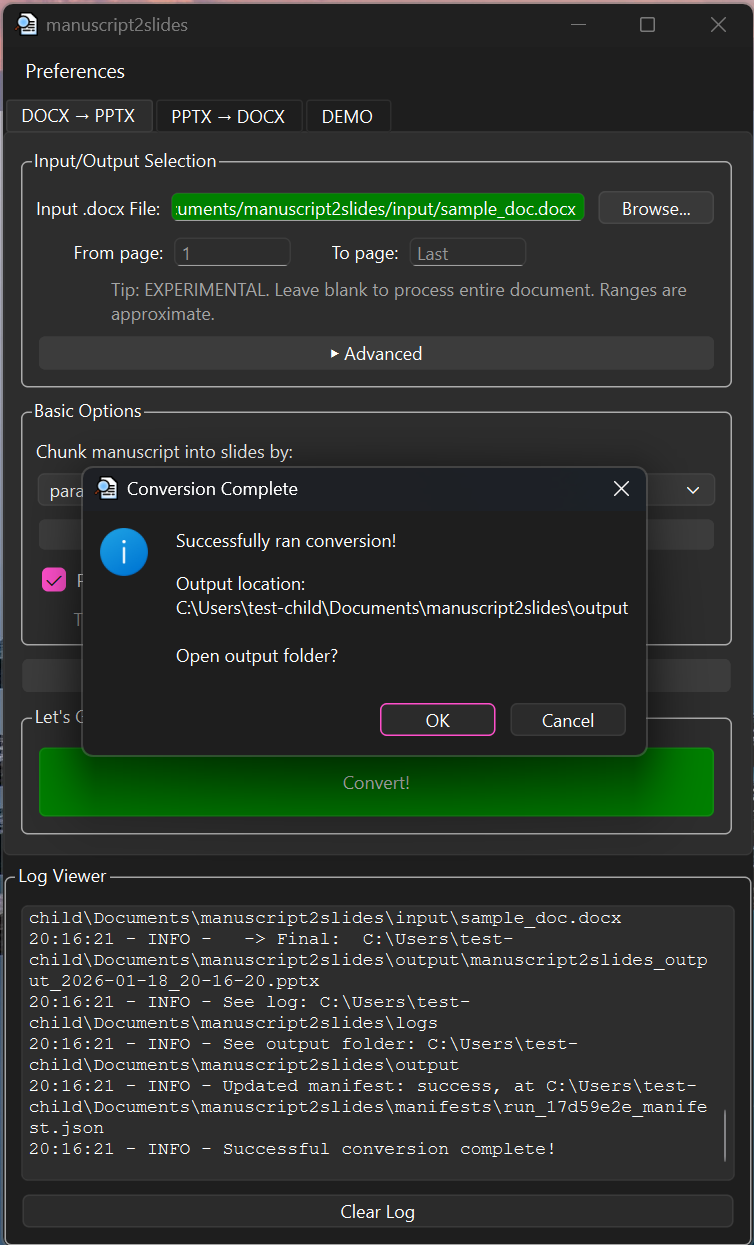
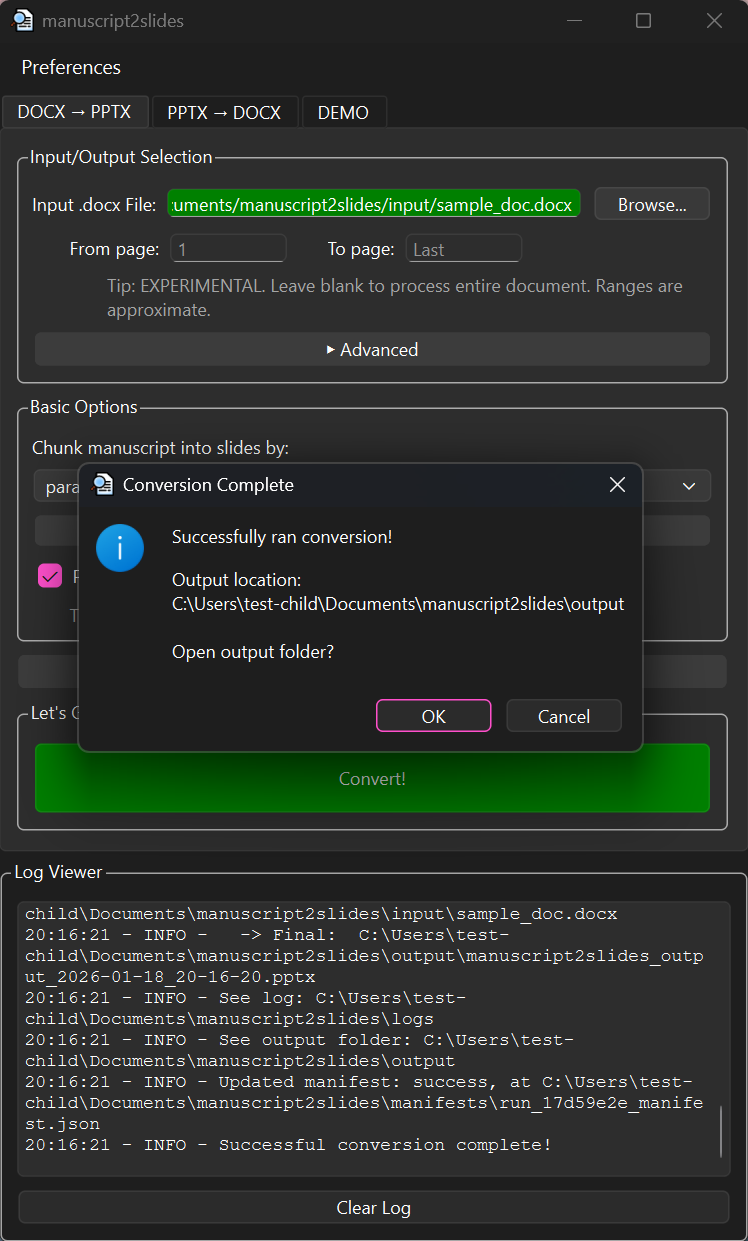
Clean up screencap assets; replace readme screencap with formatted table

diff --git a/docs/user-guide.md b/docs/user-guide.md
@@ -9,14 +9,14 @@ Launch the application and you'll see three tabs:
 
 <table>
   <tr>
-    <td><img src="assets/imgs/docx2pptx_tab_dark_mode_windows.png" alt="Windows" width="300"></td>
-    <td><img src="assets/imgs/docx2pptx_mac.png" alt="macOS" width="300"></td>
-    <td><img src="assets/imgs/docx2pptx_ubuntu_dark.png" alt="Ubuntu" width="300"></td>
-  </tr>
-  <tr>
     <td align="center">Windows</td>
     <td align="center">macOS</td>
     <td align="center">Ubuntu</td>
+  </tr>
+  <tr>
+    <td><img src="assets/imgs/docx2pptx_tab_dark_mode_windows.png" alt="Windows" width="300"></td>
+    <td><img src="assets/imgs/docx2pptx_mac.png" alt="macOS" width="300"></td>
+    <td><img src="assets/imgs/docx2pptx_ubuntu_dark.png" alt="Ubuntu" width="300"></td>
   </tr>
 </table>
 
@@ -27,12 +27,14 @@ Launch the application and you'll see three tabs:
 
 <table>
   <tr>
-    <td><img src="assets/imgs/docx2pptx_tab_success_dark_mode_windows.png" alt="Windows" width="400"></td>
-    <td><img src="assets/imgs/docx2pptx_ubuntu_dark_success.png" alt="Ubuntu" width="400"></td>
+    <td align="center">Conversion success - Windows</td>
+    <td align="center">Conversion success - macOS</td>
+    <td align="center">Conversion success - Ubuntu</td>
   </tr>
   <tr>
-    <td align="center">Conversion success - Windows</td>
-    <td align="center">Conversion success - Ubuntu</td>
+    <td><img src="assets/imgs/docx2pptx_tab_success_dark_mode_windows.png" alt="Windows" width="300"></td>
+    <td><img src="assets/imgs/docx2pptx_tab_success_mac.png" alt="macOS" width="300"></td>
+    <td><img src="assets/imgs/docx2pptx_ubuntu_dark_success.png" alt="Ubuntu" width="300"></td>
   </tr>
 </table>
 
@@ -40,12 +42,14 @@ Launch the application and you'll see three tabs:
 
 <table>
   <tr>
-    <td><img src="assets/imgs/pptx2docx_tab_dark_mode_windows.png" alt="Windows" width="400"></td>
-    <td><img src="assets/imgs/pptx2docx_ubuntu_dark.png" alt="Ubuntu" width="400"></td>
+    <td align="center">Windows</td>
+    <td align="center">macOS</td>
+    <td align="center">Ubuntu</td>
   </tr>
   <tr>
-    <td align="center">Windows</td>
-    <td align="center">Ubuntu</td>
+    <td><img src="assets/imgs/pptx2docx_tab_dark_mode_windows.png" alt="Windows" width="300"></td>
+    <td><img src="assets/imgs/pptx2docx_tab_mac.png" alt="Windows" width="300"></td>
+    <td><img src="assets/imgs/pptx2docx_ubuntu_dark.png" alt="Ubuntu" width="300"></td>
   </tr>
 </table>
 
@@ -57,14 +61,14 @@ Launch the application and you'll see three tabs:
 
 <table>
   <tr>
-    <td><img src="assets/imgs/demo_tab_dark_mode_windows.png" alt="Windows" width="300"></td>
-    <td><img src="assets/imgs/demo_tab_mac.png" alt="macOS" width="300"></td>
-    <td><img src="assets/imgs/demo_ubuntu_dark.png" alt="Ubuntu" width="300"></td>
-  </tr>
-  <tr>
     <td align="center">Windows</td>
     <td align="center">macOS</td>
     <td align="center">Ubuntu</td>
+  </tr>
+  <tr>
+    <td><img src="assets/imgs/demo_tab_dark_mode_windows.png" alt="Windows" width="300"></td>
+    <td><img src="assets/imgs/demo_tab_mac.png" alt="macOS" width="300"></td>
+    <td><img src="assets/imgs/demo_ubuntu_dark.png" alt="Ubuntu" width="300"></td>
   </tr>
 </table>
 

diff --git a/README.md b/README.md
@@ -50,7 +50,18 @@ pip install manuscript2slides
 manuscript2slides
 ```
 
-<img src="docs/assets/imgs/docx2pptx_tab_dark_mode_windows.png" alt="manuscript2slides GUI" width="600">
+<table>
+  <tr>
+    <td align="center">Windows</td>
+    <td align="center">macOS</td>
+    <td align="center">Ubuntu</td>
+  </tr>
+  <tr>
+    <td><img src="docs/assets/imgs/docx2pptx_tab_dark_mode_windows.png" alt="Windows" width="300"></td>
+    <td><img src="docs/assets/imgs/docx2pptx_mac.png" alt="macOS" width="300"></td>
+    <td><img src="docs/assets/imgs/docx2pptx_ubuntu_dark.png" alt="Ubuntu" width="300"></td>
+  </tr>
+</table>
 
 Then:
 1. Choose a tab:
